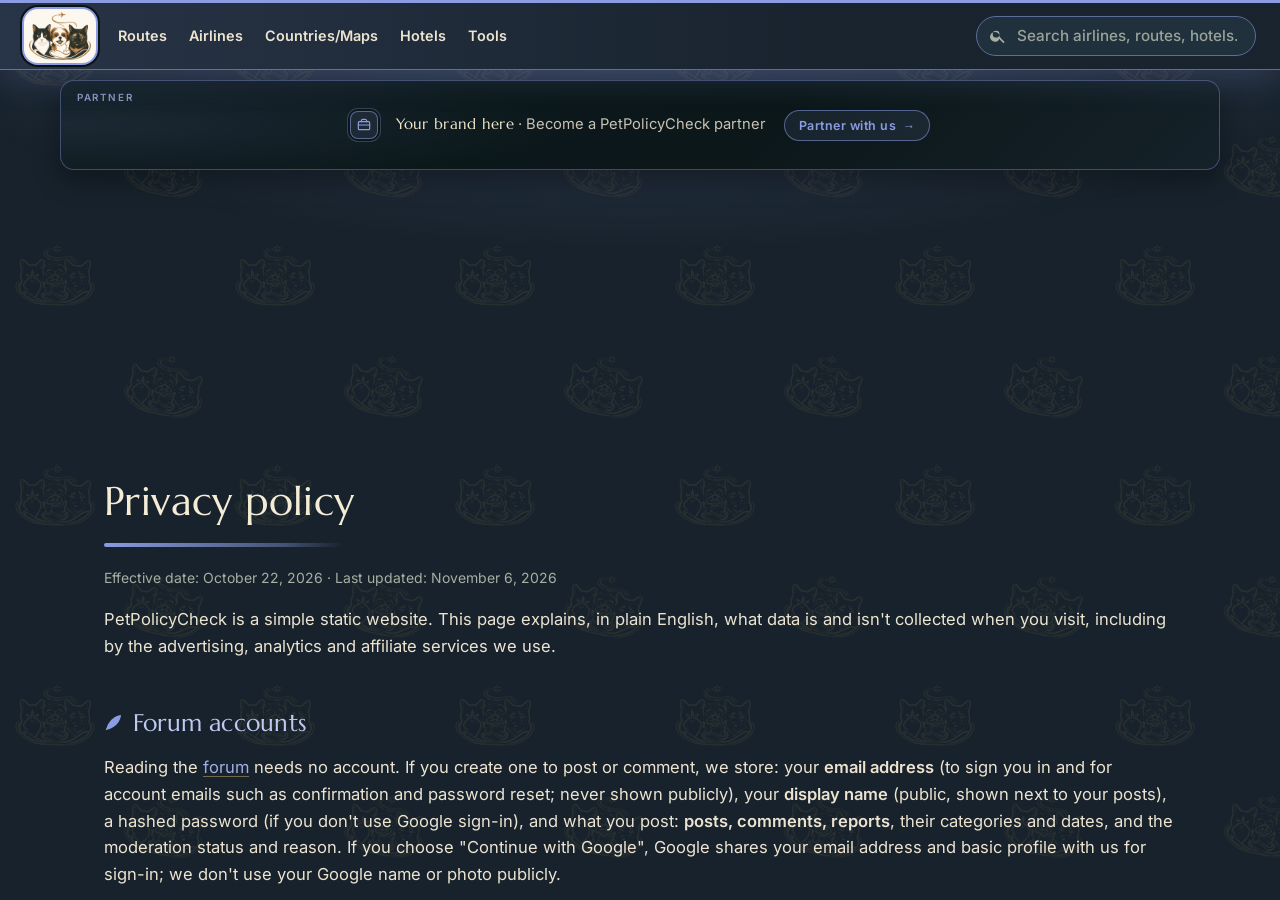
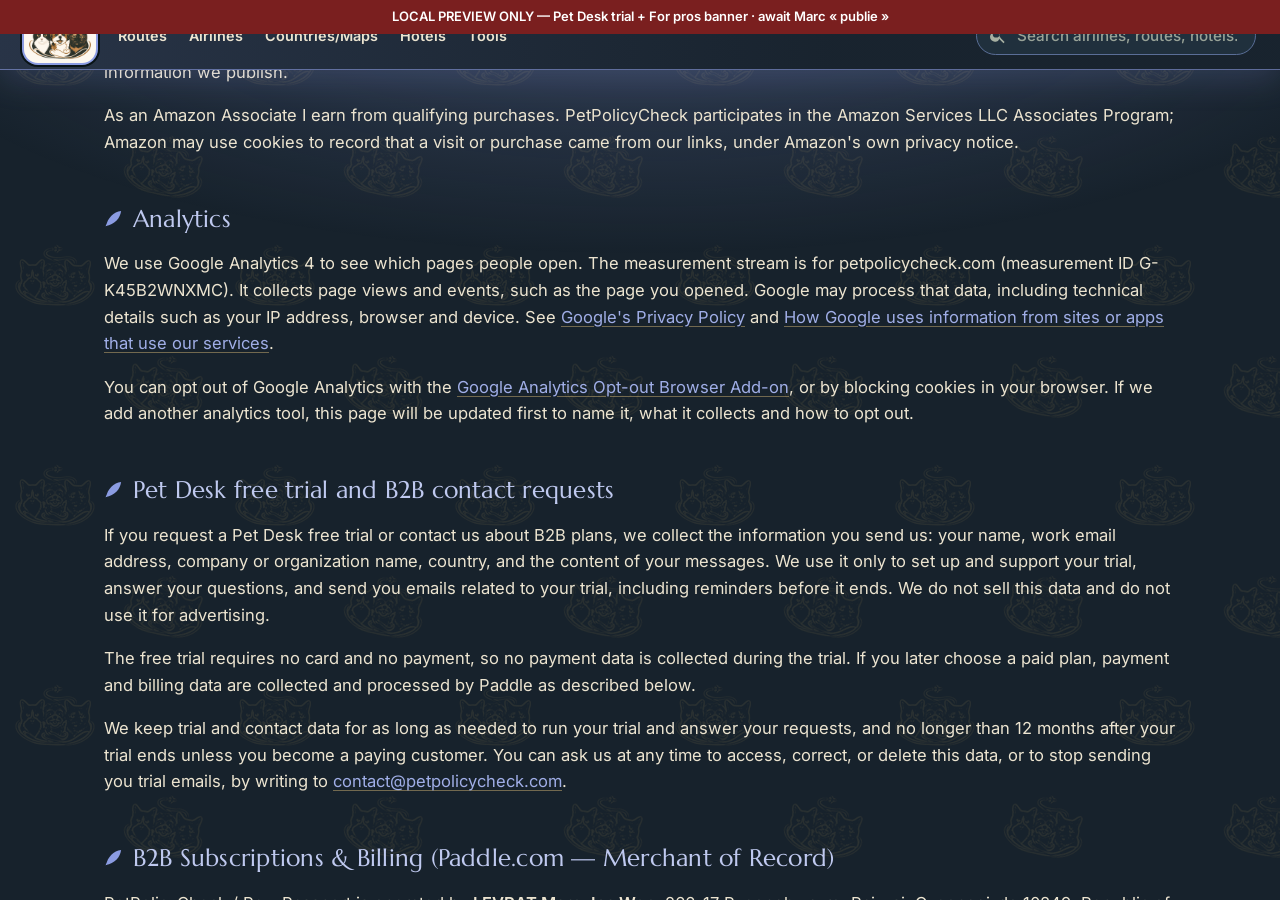
preview(petdesk): Privacy trial section + Terms §3 wording
WORD FOR WORD Privacy trial/contact before Paddle; Terms renew paragraph
paid-only with #trial link; refund already had no Separate dupe.

diff --git a/site/privacy.html b/site/privacy.html
@@ -55,6 +55,8 @@
 <link rel="stylesheet" href="assets/site-search.css?v=20261110search1">
 </head>
 <body class="v-c">
+<div class="ppc-preview-bar" role="status" style="position:sticky;top:0;z-index:9999;background:#7a1f1f;color:#fff;font:600 13px/1.35 Inter,system-ui,sans-serif;padding:8px 12px;text-align:center">LOCAL PREVIEW ONLY — Pet Desk trial + For pros banner · await Marc « publie »</div>
+
 <a class="skip" href="#main" data-i18n="site.skip">Skip to content</a>
 <header class="ppc-topbar top" data-ppc-topbar><div class="wrap"><a class="brand" href="./" aria-label="PetPolicyCheck — Home"><span class="lbadge"><img src="assets/img/logo-mark-header.png" width="62" height="48" alt="PetPolicyCheck"></span></a><nav class="ppc-nav" aria-label="Primary"><a href="routes/">Routes</a><a href="airlines/">Airlines</a><a href="countries/usa-map.html">Countries/Maps</a><a href="hotels/">Hotels</a><a href="passport/">Tools</a></nav><div data-ppc-search data-index-base="assets/" data-placeholder="Search airlines, routes, hotels…"></div><button class="ppc-burger" type="button" data-ppc-burger aria-expanded="false" aria-controls="ppc-drawer"><svg viewBox="0 0 24 24" width="20" height="20" aria-hidden="true"><path d="M3 6h18v2H3zm0 5h18v2H3zm0 5h18v2H3z"/></svg><span>Menu</span></button></div></header>
 <div class="ppc-drawer-backdrop" data-ppc-drawer-backdrop></div>
@@ -74,8 +76,8 @@ m.addEventListener('focusout',function(e){var r=e.relatedTarget;if(m.classList.c
 if(document.readyState==='loading')document.addEventListener('DOMContentLoaded',init);else init()})();</script><script src="assets/js/partner-banner.js" defer data-partner-root="assets/partners/"></script>
 <main class="wrap" id="main">
 <h1>Privacy policy</h1>
-<p class="small">Effective date: October 22, 2026 &middot; Last updated: November 6, 2026</p>
-<p>PetPolicyCheck is a simple static website. This page explains, in plain English, what data is and isn't collected when you visit, including by the advertising, analytics and affiliate services we use.</p>
+<p class="small">Effective date: October 22, 2026 &middot; Last updated: November 10, 2026</p>
+<p>PetPolicyCheck is a mostly static website. This page explains, in plain English, what data is and isn't collected when you visit, including by the advertising, analytics and affiliate services we use.</p>
 <h2 id="forum">Forum accounts</h2>
 <p>Reading the <a href="forum/">forum</a> needs no account. If you create one to post or comment, we store: your <b>email address</b> (to sign you in and for account emails such as confirmation and password reset; never shown publicly), your <b>display name</b> (public, shown next to your posts), a hashed password (if you don't use Google sign-in), and what you post: <b>posts, comments, reports</b>, their categories and dates, and the moderation status and reason. If you choose "Continue with Google", Google shares your email address and basic profile with us for sign-in; we don't use your Google name or photo publicly.</p>
 <p><b>Processor:</b> accounts and forum content are stored by <a href="https://supabase.com/privacy" rel="noopener" target="_blank">Supabase</a> (our database and sign-in provider), which processes the data on our behalf; our project is hosted in Supabase's Northeast Asia (Seoul) region. Supabase may log technical data such as IP addresses for security. Sign-in keeps a session token in your browser's local storage (not an advertising cookie); signing out removes it.</p>
@@ -112,6 +114,10 @@ if(document.readyState==='loading')document.addEventListener('DOMContentLoaded',
 <h2>Analytics</h2>
 <p>We use Google Analytics 4 to see which pages people open. The measurement stream is for petpolicycheck.com (measurement ID G-K45B2WNXMC). It collects page views and events, such as the page you opened. Google may process that data, including technical details such as your IP address, browser and device. See <a href="https://policies.google.com/privacy" rel="noopener" target="_blank">Google's Privacy Policy</a> and <a href="https://policies.google.com/technologies/partner-sites" rel="noopener" target="_blank">How Google uses information from sites or apps that use our services</a>.</p>
 <p>You can opt out of Google Analytics with the <a href="https://tools.google.com/dlpage/gaoptout" rel="noopener" target="_blank">Google Analytics Opt-out Browser Add-on</a>, or by blocking cookies in your browser. If we add another analytics tool, this page will be updated first to name it, what it collects and how to opt out.</p>
+<h2>Pet Desk free trial and B2B contact requests</h2>
+<p>If you request a Pet Desk free trial or contact us about B2B plans, we collect the information you send us: your name, work email address, company or organization name, country, and the content of your messages. We use it only to set up and support your trial, answer your questions, and send you emails related to your trial, including reminders before it ends. We do not sell this data and do not use it for advertising.</p>
+<p>The free trial requires no card and no payment, so no payment data is collected during the trial. If you later choose a paid plan, payment and billing data are collected and processed by Paddle as described below.</p>
+<p>We keep trial and contact data for as long as needed to run your trial and answer your requests, and no longer than 12 months after your trial ends unless you become a paying customer. You can ask us at any time to access, correct, or delete this data, or to stop sending you trial emails, by writing to <a href="&#109;&#97;&#105;&#108;&#116;&#111;&#58;&#99;&#111;&#110;&#116;&#97;&#99;&#116;&#64;&#112;&#101;&#116;&#112;&#111;&#108;&#105;&#99;&#121;&#99;&#104;&#101;&#99;&#107;&#46;&#99;&#111;&#109;">&#99;&#111;&#110;&#116;&#97;&#99;&#116;&#64;&#112;&#101;&#116;&#112;&#111;&#108;&#105;&#99;&#121;&#99;&#104;&#101;&#99;&#107;&#46;&#99;&#111;&#109;</a>.</p>
 <h2 id="paddle-billing">B2B Subscriptions &amp; Billing (Paddle.com — Merchant of Record)</h2>
 <p>PetPolicyCheck / Paw Passport is operated by <strong>LEVRAT Marc Jea Won</strong>, 266-17 Pyeonghwa-ro, Paju-si, Gyeonggi-do 10849, Republic of Korea. Contact: <a href="&#109;&#97;&#105;&#108;&#116;&#111;&#58;&#99;&#111;&#110;&#116;&#97;&#99;&#116;&#64;&#112;&#101;&#116;&#112;&#111;&#108;&#105;&#99;&#121;&#99;&#104;&#101;&#99;&#107;&#46;&#99;&#111;&#109;">&#99;&#111;&#110;&#116;&#97;&#99;&#116;&#64;&#112;&#101;&#116;&#112;&#111;&#108;&#105;&#99;&#121;&#99;&#104;&#101;&#99;&#107;&#46;&#99;&#111;&#109;</a>.</p>
 <p>For paid <strong>B2B Pet Desk</strong> subscriptions (<a href="pro/">current pricing</a>), <strong>Paddle.com Market Limited / Paddle.com Inc.</strong> (&ldquo;Paddle&rdquo;) acts as <strong>Merchant of Record</strong> and as an independent controller of payment and billing data. Card, PayPal, and other payment details are collected and processed by Paddle — they <strong>never touch PetPolicyCheck servers</strong>.</p>

diff --git a/static/privacy.html b/static/privacy.html
@@ -55,6 +55,8 @@
 <link rel="stylesheet" href="assets/site-search.css?v=20261110search1">
 </head>
 <body class="v-c">
+<div class="ppc-preview-bar" role="status" style="position:sticky;top:0;z-index:9999;background:#7a1f1f;color:#fff;font:600 13px/1.35 Inter,system-ui,sans-serif;padding:8px 12px;text-align:center">LOCAL PREVIEW ONLY — Pet Desk trial + For pros banner · await Marc « publie »</div>
+
 <a class="skip" href="#main" data-i18n="site.skip">Skip to content</a>
 <header class="ppc-topbar top" data-ppc-topbar><div class="wrap"><a class="brand" href="./" aria-label="PetPolicyCheck — Home"><span class="lbadge"><img src="assets/img/logo-mark-header.png" width="62" height="48" alt="PetPolicyCheck"></span></a><nav class="ppc-nav" aria-label="Primary"><a href="routes/">Routes</a><a href="airlines/">Airlines</a><a href="countries/usa-map.html">Countries/Maps</a><a href="hotels/">Hotels</a><a href="passport/">Tools</a></nav><div data-ppc-search data-index-base="assets/" data-placeholder="Search airlines, routes, hotels…"></div><button class="ppc-burger" type="button" data-ppc-burger aria-expanded="false" aria-controls="ppc-drawer"><svg viewBox="0 0 24 24" width="20" height="20" aria-hidden="true"><path d="M3 6h18v2H3zm0 5h18v2H3zm0 5h18v2H3z"/></svg><span>Menu</span></button></div></header>
 <div class="ppc-drawer-backdrop" data-ppc-drawer-backdrop></div>
@@ -74,8 +76,8 @@ m.addEventListener('focusout',function(e){var r=e.relatedTarget;if(m.classList.c
 if(document.readyState==='loading')document.addEventListener('DOMContentLoaded',init);else init()})();</script><script src="assets/js/partner-banner.js" defer data-partner-root="assets/partners/"></script>
 <main class="wrap" id="main">
 <h1>Privacy policy</h1>
-<p class="small">Effective date: October 22, 2026 &middot; Last updated: November 6, 2026</p>
-<p>PetPolicyCheck is a simple static website. This page explains, in plain English, what data is and isn't collected when you visit, including by the advertising, analytics and affiliate services we use.</p>
+<p class="small">Effective date: October 22, 2026 &middot; Last updated: November 10, 2026</p>
+<p>PetPolicyCheck is a mostly static website. This page explains, in plain English, what data is and isn't collected when you visit, including by the advertising, analytics and affiliate services we use.</p>
 <h2 id="forum">Forum accounts</h2>
 <p>Reading the <a href="forum/">forum</a> needs no account. If you create one to post or comment, we store: your <b>email address</b> (to sign you in and for account emails such as confirmation and password reset; never shown publicly), your <b>display name</b> (public, shown next to your posts), a hashed password (if you don't use Google sign-in), and what you post: <b>posts, comments, reports</b>, their categories and dates, and the moderation status and reason. If you choose "Continue with Google", Google shares your email address and basic profile with us for sign-in; we don't use your Google name or photo publicly.</p>
 <p><b>Processor:</b> accounts and forum content are stored by <a href="https://supabase.com/privacy" rel="noopener" target="_blank">Supabase</a> (our database and sign-in provider), which processes the data on our behalf; our project is hosted in Supabase's Northeast Asia (Seoul) region. Supabase may log technical data such as IP addresses for security. Sign-in keeps a session token in your browser's local storage (not an advertising cookie); signing out removes it.</p>
@@ -112,6 +114,10 @@ if(document.readyState==='loading')document.addEventListener('DOMContentLoaded',
 <h2>Analytics</h2>
 <p>We use Google Analytics 4 to see which pages people open. The measurement stream is for petpolicycheck.com (measurement ID G-K45B2WNXMC). It collects page views and events, such as the page you opened. Google may process that data, including technical details such as your IP address, browser and device. See <a href="https://policies.google.com/privacy" rel="noopener" target="_blank">Google's Privacy Policy</a> and <a href="https://policies.google.com/technologies/partner-sites" rel="noopener" target="_blank">How Google uses information from sites or apps that use our services</a>.</p>
 <p>You can opt out of Google Analytics with the <a href="https://tools.google.com/dlpage/gaoptout" rel="noopener" target="_blank">Google Analytics Opt-out Browser Add-on</a>, or by blocking cookies in your browser. If we add another analytics tool, this page will be updated first to name it, what it collects and how to opt out.</p>
+<h2>Pet Desk free trial and B2B contact requests</h2>
+<p>If you request a Pet Desk free trial or contact us about B2B plans, we collect the information you send us: your name, work email address, company or organization name, country, and the content of your messages. We use it only to set up and support your trial, answer your questions, and send you emails related to your trial, including reminders before it ends. We do not sell this data and do not use it for advertising.</p>
+<p>The free trial requires no card and no payment, so no payment data is collected during the trial. If you later choose a paid plan, payment and billing data are collected and processed by Paddle as described below.</p>
+<p>We keep trial and contact data for as long as needed to run your trial and answer your requests, and no longer than 12 months after your trial ends unless you become a paying customer. You can ask us at any time to access, correct, or delete this data, or to stop sending you trial emails, by writing to <a href="&#109;&#97;&#105;&#108;&#116;&#111;&#58;&#99;&#111;&#110;&#116;&#97;&#99;&#116;&#64;&#112;&#101;&#116;&#112;&#111;&#108;&#105;&#99;&#121;&#99;&#104;&#101;&#99;&#107;&#46;&#99;&#111;&#109;">&#99;&#111;&#110;&#116;&#97;&#99;&#116;&#64;&#112;&#101;&#116;&#112;&#111;&#108;&#105;&#99;&#121;&#99;&#104;&#101;&#99;&#107;&#46;&#99;&#111;&#109;</a>.</p>
 <h2 id="paddle-billing">B2B Subscriptions &amp; Billing (Paddle.com — Merchant of Record)</h2>
 <p>PetPolicyCheck / Paw Passport is operated by <strong>LEVRAT Marc Jea Won</strong>, 266-17 Pyeonghwa-ro, Paju-si, Gyeonggi-do 10849, Republic of Korea. Contact: <a href="&#109;&#97;&#105;&#108;&#116;&#111;&#58;&#99;&#111;&#110;&#116;&#97;&#99;&#116;&#64;&#112;&#101;&#116;&#112;&#111;&#108;&#105;&#99;&#121;&#99;&#104;&#101;&#99;&#107;&#46;&#99;&#111;&#109;">&#99;&#111;&#110;&#116;&#97;&#99;&#116;&#64;&#112;&#101;&#116;&#112;&#111;&#108;&#105;&#99;&#121;&#99;&#104;&#101;&#99;&#107;&#46;&#99;&#111;&#109;</a>.</p>
 <p>For paid <strong>B2B Pet Desk</strong> subscriptions (<a href="pro/">current pricing</a>), <strong>Paddle.com Market Limited / Paddle.com Inc.</strong> (&ldquo;Paddle&rdquo;) acts as <strong>Merchant of Record</strong> and as an independent controller of payment and billing data. Card, PayPal, and other payment details are collected and processed by Paddle — they <strong>never touch PetPolicyCheck servers</strong>.</p>

diff --git a/site/terms.html b/site/terms.html
@@ -109,7 +109,7 @@ if(document.readyState==='loading')document.addEventListener('DOMContentLoaded',
 <li>issues invoices and receipts;</li>
 <li>handles buyer support and returns for those orders.</li>
 </ul>
-<p>Subscriptions renew automatically each billing period (monthly or annual) until cancelled. You authorize recurring charges for the selected plan. Where Paddle offers direct business invoicing for eligible buyers, those terms appear at checkout.</p>
+<p>Paid subscriptions that you choose and confirm through Paddle renew automatically each billing period (monthly or annual) until cancelled. By confirming a paid purchase, you authorize recurring charges for the selected plan. The free trial creates no subscription and authorizes no charge (see <a href="#trial">14-day free trial below</a>). Where Paddle offers direct business invoicing for eligible buyers, those terms appear at checkout.</p>
 <p>Buyer support for paid orders: <a href="https://paddle.net" rel="noopener" target="_blank">paddle.net</a> or <a href="&#109;&#97;&#105;&#108;&#116;&#111;&#58;&#99;&#111;&#110;&#116;&#97;&#99;&#116;&#64;&#112;&#101;&#116;&#112;&#111;&#108;&#105;&#99;&#121;&#99;&#104;&#101;&#99;&#107;&#46;&#99;&#111;&#109;">&#99;&#111;&#110;&#116;&#97;&#99;&#116;&#64;&#112;&#101;&#116;&#112;&#111;&#108;&#105;&#99;&#121;&#99;&#104;&#101;&#99;&#107;&#46;&#99;&#111;&#109;</a>.</p>
 
 

diff --git a/static/terms.html b/static/terms.html
@@ -109,7 +109,7 @@ if(document.readyState==='loading')document.addEventListener('DOMContentLoaded',
 <li>issues invoices and receipts;</li>
 <li>handles buyer support and returns for those orders.</li>
 </ul>
-<p>Subscriptions renew automatically each billing period (monthly or annual) until cancelled. You authorize recurring charges for the selected plan. Where Paddle offers direct business invoicing for eligible buyers, those terms appear at checkout.</p>
+<p>Paid subscriptions that you choose and confirm through Paddle renew automatically each billing period (monthly or annual) until cancelled. By confirming a paid purchase, you authorize recurring charges for the selected plan. The free trial creates no subscription and authorizes no charge (see <a href="#trial">14-day free trial below</a>). Where Paddle offers direct business invoicing for eligible buyers, those terms appear at checkout.</p>
 <p>Buyer support for paid orders: <a href="https://paddle.net" rel="noopener" target="_blank">paddle.net</a> or <a href="&#109;&#97;&#105;&#108;&#116;&#111;&#58;&#99;&#111;&#110;&#116;&#97;&#99;&#116;&#64;&#112;&#101;&#116;&#112;&#111;&#108;&#105;&#99;&#121;&#99;&#104;&#101;&#99;&#107;&#46;&#99;&#111;&#109;">&#99;&#111;&#110;&#116;&#97;&#99;&#116;&#64;&#112;&#101;&#116;&#112;&#111;&#108;&#105;&#99;&#121;&#99;&#104;&#101;&#99;&#107;&#46;&#99;&#111;&#109;</a>.</p>
 
 
